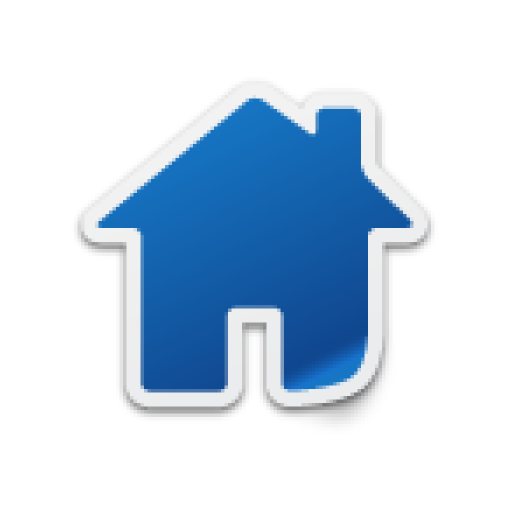
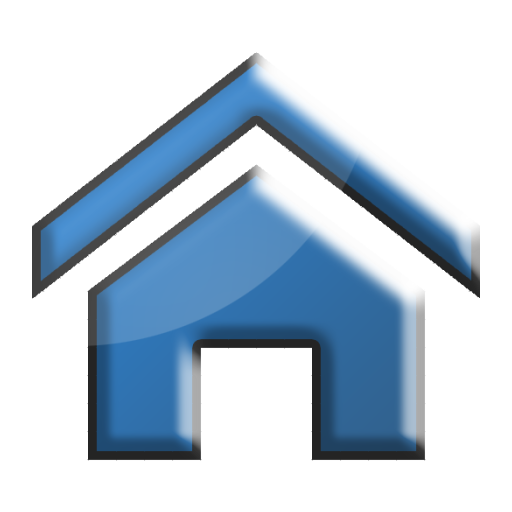
BETA finish 2
Modification de certains titres, et de traductions
Réorganisation du fichier strings.xml

diff --git a/app/src/main/java/fr/deepanse/soywod/deepanse/activity/CreateDeepAnse.java b/app/src/main/java/fr/deepanse/soywod/deepanse/activity/CreateDeepAnse.java
@@ -175,7 +175,7 @@ public class CreateDeepAnse extends DeepAnse {
 
     public void eventAgain(View view) {
         Intent intent = new Intent(RecognizerIntent.ACTION_RECOGNIZE_SPEECH);
-        intent.putExtra(RecognizerIntent.EXTRA_PROMPT, getString(R.string.prompt_add_deepanse));
+        intent.putExtra(RecognizerIntent.EXTRA_PROMPT, getString(R.string.prompt_create_deepanse));
         startActivityForResult(intent, 0);
     }
 
@@ -189,7 +189,7 @@ public class CreateDeepAnse extends DeepAnse {
                 false
         );
         deepAnseDb.insert(deepAnse);
-        Toast.makeText(getApplicationContext(), getString(R.string.inserted_deepense), Toast.LENGTH_SHORT).show();
+        Toast.makeText(getApplicationContext(), getString(R.string.toast_inserted_deepense), Toast.LENGTH_SHORT).show();
         finish();
     }
 
@@ -199,22 +199,6 @@ public class CreateDeepAnse extends DeepAnse {
         if (requestCode == 0 && resultCode == RESULT_OK) {
             initExtract(data.getStringArrayListExtra(RecognizerIntent.EXTRA_RESULTS).get(0).toLowerCase());
         }
-    }
-
-    @Override
-    public boolean onCreateOptionsMenu(Menu menu) {
-        getMenuInflater().inflate(R.menu.menu_edit_deepanse, menu);
-        return true;
-    }
-
-    @Override
-    public boolean onOptionsItemSelected(MenuItem item) {
-        switch (item.getItemId()) {
-            case android.R.id.home:
-                finish();
-        }
-
-        return super.onOptionsItemSelected(item);
     }
 
     public void initRegexGroup() {
@@ -240,5 +224,27 @@ public class CreateDeepAnse extends DeepAnse {
         }
     }
 
+    @Override
+    public boolean onCreateOptionsMenu(Menu menu) {
+        getMenuInflater().inflate(R.menu.menu_edit_deepanse, menu);
+        return true;
+    }
+
+    @Override
+    public boolean onOptionsItemSelected(MenuItem item) {
+        switch (item.getItemId()) {
+            case android.R.id.home:
+                finish();
+                break;
+
+            case R.id.home :
+                Intent intent = new Intent(CreateDeepAnse.this, Home.class);
+                intent.setFlags(Intent.FLAG_ACTIVITY_CLEAR_TOP);
+                startActivity(intent);
+                finish();
+        }
+
+        return super.onOptionsItemSelected(item);
+    }
 }
 

diff --git a/app/src/main/java/fr/deepanse/soywod/deepanse/activity/EditDeepAnseGroup.java b/app/src/main/java/fr/deepanse/soywod/deepanse/activity/EditDeepAnseGroup.java
@@ -4,6 +4,8 @@ import android.app.AlertDialog;
 import android.content.Intent;
 import android.graphics.Color;
 import android.os.Bundle;
+import android.view.Menu;
+import android.view.MenuItem;
 import android.view.View;
 import android.widget.EditText;
 import android.widget.LinearLayout;
@@ -78,7 +80,7 @@ public class EditDeepAnseGroup extends DeepAnse {
             public void execute() {
                 groupDb.updateAllById(id);
                 groupDb.delete(id);
-                Toast.makeText(getApplicationContext(), getString(R.string.deleted_group), Toast.LENGTH_SHORT).show();
+                Toast.makeText(getApplicationContext(), getString(R.string.toast_deleted_group), Toast.LENGTH_SHORT).show();
                 finish();
             }
         });
@@ -95,14 +97,37 @@ public class EditDeepAnseGroup extends DeepAnse {
 
         if (id == 0) {
             groupDb.insert(deepAnseGroup);
-            Toast.makeText(getApplicationContext(), getString(R.string.inserted_group), Toast.LENGTH_SHORT).show();
+            Toast.makeText(getApplicationContext(), getString(R.string.toast_inserted_group), Toast.LENGTH_SHORT).show();
         }
         else {
             groupDb.update(id, deepAnseGroup);
-            Toast.makeText(getApplicationContext(), getString(R.string.updated_group), Toast.LENGTH_SHORT).show();
+            Toast.makeText(getApplicationContext(), getString(R.string.toast_updated_group), Toast.LENGTH_SHORT).show();
         }
 
         finish();
+    }
+
+    @Override
+    public boolean onCreateOptionsMenu(Menu menu) {
+        getMenuInflater().inflate(R.menu.menu_edit_deepanse, menu);
+        return true;
+    }
+
+    @Override
+    public boolean onOptionsItemSelected(MenuItem item) {
+        switch (item.getItemId()) {
+            case android.R.id.home:
+                finish();
+                break;
+
+            case R.id.home :
+                Intent intent = new Intent(EditDeepAnseGroup.this, Home.class);
+                intent.setFlags(Intent.FLAG_ACTIVITY_CLEAR_TOP);
+                startActivity(intent);
+                finish();
+        }
+
+        return super.onOptionsItemSelected(item);
     }
 }
 

diff --git a/app/src/main/java/fr/deepanse/soywod/deepanse/activity/ListDeepAnseDetail.java b/app/src/main/java/fr/deepanse/soywod/deepanse/activity/ListDeepAnseDetail.java
@@ -84,7 +84,7 @@ public class ListDeepAnseDetail extends DeepAnse implements AdapterView.OnItemCl
         adapter.notifyDataSetChanged();
 
         if (arrayDeepAnse.size() == 0) {
-            Toast.makeText(getApplicationContext(), getString(R.string.no_result), Toast.LENGTH_SHORT).show();
+            Toast.makeText(getApplicationContext(), getString(R.string.toast_no_result), Toast.LENGTH_SHORT).show();
             finish();
         }
 
@@ -120,7 +120,7 @@ public class ListDeepAnseDetail extends DeepAnse implements AdapterView.OnItemCl
             @Override
             public void execute() {
                 deepAnseDb.delete(arrayDeepAnse.get(position).getId());
-                Toast.makeText(getApplicationContext(), getString(R.string.deleted_deepense), Toast.LENGTH_SHORT).show();
+                Toast.makeText(getApplicationContext(), getString(R.string.toast_deleted_deepense), Toast.LENGTH_SHORT).show();
                 refreshData();
                 longClicked = false;
             }
@@ -138,7 +138,7 @@ public class ListDeepAnseDetail extends DeepAnse implements AdapterView.OnItemCl
 
     @Override
     public boolean onCreateOptionsMenu(Menu menu) {
-        getMenuInflater().inflate(R.menu.menu_list_deepanse_detail, menu);
+        getMenuInflater().inflate(R.menu.menu_edit_deepanse, menu);
         return true;
     }
 
@@ -146,6 +146,13 @@ public class ListDeepAnseDetail extends DeepAnse implements AdapterView.OnItemCl
     public boolean onOptionsItemSelected(MenuItem item) {
         switch (item.getItemId()) {
             case android.R.id.home:
+                finish();
+                break;
+
+            case R.id.home :
+                Intent intent = new Intent(ListDeepAnseDetail.this, Home.class);
+                intent.setFlags(Intent.FLAG_ACTIVITY_CLEAR_TOP);
+                startActivity(intent);
                 finish();
         }
 

diff --git a/app/src/main/java/fr/deepanse/soywod/deepanse/activity/EditDeepAnse.java b/app/src/main/java/fr/deepanse/soywod/deepanse/activity/EditDeepAnse.java
@@ -85,7 +85,7 @@ public class EditDeepAnse extends DeepAnse {
             @Override
             public void execute() {
                 deepAnseDb.delete(id);
-                Toast.makeText(getApplicationContext(), getString(R.string.deleted_deepense), Toast.LENGTH_SHORT).show();
+                Toast.makeText(getApplicationContext(), getString(R.string.toast_deleted_deepense), Toast.LENGTH_SHORT).show();
                 finish();
             }
         });
@@ -105,11 +105,11 @@ public class EditDeepAnse extends DeepAnse {
 
         if (id == 0) {
             deepAnseDb.insert(deepAnse);
-            Toast.makeText(getApplicationContext(), getString(R.string.inserted_deepense), Toast.LENGTH_SHORT).show();
+            Toast.makeText(getApplicationContext(), getString(R.string.toast_inserted_deepense), Toast.LENGTH_SHORT).show();
         }
         else {
             deepAnseDb.update(id, deepAnse);
-            Toast.makeText(getApplicationContext(), getString(R.string.updated_deepense), Toast.LENGTH_SHORT).show();
+            Toast.makeText(getApplicationContext(), getString(R.string.toast_updated_deepense), Toast.LENGTH_SHORT).show();
         }
 
         finish();
@@ -124,8 +124,15 @@ public class EditDeepAnse extends DeepAnse {
     @Override
     public boolean onOptionsItemSelected(MenuItem item) {
         switch (item.getItemId()) {
-            case android.R.id.home:
+            case android.R.id.home :
                 eventCancel(null);
+                break;
+
+            case R.id.home :
+                Intent intent = new Intent(EditDeepAnse.this, Home.class);
+                intent.setFlags(Intent.FLAG_ACTIVITY_CLEAR_TOP);
+                startActivity(intent);
+                finish();
         }
 
         return super.onOptionsItemSelected(item);

diff --git a/app/src/main/java/fr/deepanse/soywod/deepanse/activity/ListDeepAnse.java b/app/src/main/java/fr/deepanse/soywod/deepanse/activity/ListDeepAnse.java
@@ -70,7 +70,7 @@ public class ListDeepAnse extends DeepAnse {
 
 
                     Intent intent = new Intent(ListDeepAnse.this, ListDeepAnseDetail.class);
-                    intent.putExtra("title", R.string.title_detail_of);
+                    intent.putExtra("title", R.string.title_detailed_list);
                     intent.putExtra("date", Conversion.dateToString(date));
                     intent.putExtra("group", group);
                     startActivity(intent);
@@ -298,7 +298,7 @@ public class ListDeepAnse extends DeepAnse {
             collapseAll();
         }
         else {
-            Toast.makeText(getApplicationContext(), getString(R.string.no_result), Toast.LENGTH_SHORT).show();
+            Toast.makeText(getApplicationContext(), getString(R.string.toast_no_result), Toast.LENGTH_SHORT).show();
             finish();
         }
     }
@@ -312,23 +312,18 @@ public class ListDeepAnse extends DeepAnse {
     @Override
     public boolean onOptionsItemSelected(MenuItem item) {
         switch (item.getItemId()) {
-            case R.id.menu_year:
-                eventListByYear(null);
-                break;
-
-            case R.id.menu_month:
-                eventListByMonth(null);
-                break;
-
-            case R.id.menu_day:
-                eventListByDay(null);
-                break;
-
             case R.id.menu_collapse:
                 collapseAll();
                 break;
 
             case android.R.id.home:
+                finish();
+                break;
+
+            case R.id.home :
+                Intent intent = new Intent(ListDeepAnse.this, Home.class);
+                intent.setFlags(Intent.FLAG_ACTIVITY_CLEAR_TOP);
+                startActivity(intent);
                 finish();
         }
 

diff --git a/app/src/main/java/fr/deepanse/soywod/deepanse/activity/ListDeepAnseGroup.java b/app/src/main/java/fr/deepanse/soywod/deepanse/activity/ListDeepAnseGroup.java
@@ -89,7 +89,7 @@ public class ListDeepAnseGroup extends DeepAnse implements AdapterView.OnItemCli
                 public void execute() {
                     groupDb.updateAllById(arrayDeepAnseGroup.get(position).getId());
                     groupDb.delete(arrayDeepAnseGroup.get(position).getId());
-                    Toast.makeText(getApplicationContext(), getString(R.string.deleted_group), Toast.LENGTH_SHORT).show();
+                    Toast.makeText(getApplicationContext(), getString(R.string.toast_deleted_group), Toast.LENGTH_SHORT).show();
                     refreshData();
                     longClicked = false;
                 }
@@ -107,7 +107,7 @@ public class ListDeepAnseGroup extends DeepAnse implements AdapterView.OnItemCli
 
     @Override
     public boolean onCreateOptionsMenu(Menu menu) {
-        getMenuInflater().inflate(R.menu.menu_list_deepanse_detail, menu);
+        getMenuInflater().inflate(R.menu.menu_edit_deepanse, menu);
         return true;
     }
 
@@ -115,6 +115,13 @@ public class ListDeepAnseGroup extends DeepAnse implements AdapterView.OnItemCli
     public boolean onOptionsItemSelected(MenuItem item) {
         switch (item.getItemId()) {
             case android.R.id.home:
+                finish();
+                break;
+
+            case R.id.home :
+                Intent intent = new Intent(ListDeepAnseGroup.this, Home.class);
+                intent.setFlags(Intent.FLAG_ACTIVITY_CLEAR_TOP);
+                startActivity(intent);
                 finish();
         }
 

diff --git a/app/src/main/java/fr/deepanse/soywod/deepanse/activity/Home.java b/app/src/main/java/fr/deepanse/soywod/deepanse/activity/Home.java
@@ -22,6 +22,7 @@ public class Home extends ActionBarActivity implements View.OnClickListener {
         ActionBar actionBar = getSupportActionBar();
         actionBar.setDisplayOptions(ActionBar.DISPLAY_SHOW_HOME | ActionBar.DISPLAY_SHOW_TITLE);
         actionBar.setTitle(getString(R.string.title_home));
+        actionBar.setIcon(getResources().getDrawable(R.drawable.home));
 
         findViewById(R.id.button_add_deepanse_by_voice).setOnClickListener(this);
         findViewById(R.id.button_add_deepanse_by_hand).setOnClickListener(this);
@@ -39,7 +40,7 @@ public class Home extends ActionBarActivity implements View.OnClickListener {
         switch (v.getId()) {
             case R.id.button_add_deepanse_by_voice :
                 intent = new Intent(RecognizerIntent.ACTION_RECOGNIZE_SPEECH);
-                intent.putExtra(RecognizerIntent.EXTRA_PROMPT, getString(R.string.prompt_add_deepanse));
+                intent.putExtra(RecognizerIntent.EXTRA_PROMPT, getString(R.string.prompt_create_deepanse));
                 startActivityForResult(intent, 0);
                 break;
 

diff --git a/app/src/main/java/fr/deepanse/soywod/deepanse/activity/DeepAnse.java b/app/src/main/java/fr/deepanse/soywod/deepanse/activity/DeepAnse.java
@@ -9,6 +9,7 @@ import android.view.View;
 
 import java.sql.SQLException;
 
+import fr.deepanse.soywod.deepanse.R;
 import fr.deepanse.soywod.deepanse.database.DeepAnseSQLiteOpenHelper;
 import fr.deepanse.soywod.deepanse.model.DeepAnseGroup;
 
@@ -51,12 +52,12 @@ abstract public class DeepAnse extends ActionBarActivity {
             e.printStackTrace();
         }
 
-        if (groupDb.select(1) == null) groupDb.insert(new DeepAnseGroup(1, "default", Color.DKGRAY));
+        if (groupDb.select(1) == null) groupDb.insert(new DeepAnseGroup(1, "default", getResources().getColor(R.color.ColorBlue)));
     }
 
     private void initActionBar() {
         actionBar = getSupportActionBar();
-        actionBar.setDisplayOptions(ActionBar.DISPLAY_SHOW_HOME | ActionBar.DISPLAY_SHOW_TITLE);
+        actionBar.setDisplayOptions(ActionBar.DISPLAY_HOME_AS_UP | ActionBar.DISPLAY_SHOW_TITLE);
     }
 
     protected void setActionBarIcon(int drawableRes) {

diff --git a/app/src/main/java/fr/deepanse/soywod/deepanse/activity/FindDeepAnse.java b/app/src/main/java/fr/deepanse/soywod/deepanse/activity/FindDeepAnse.java
@@ -107,6 +107,13 @@ public class FindDeepAnse extends DeepAnse {
         switch (item.getItemId()) {
             case android.R.id.home:
                 finish();
+                break;
+
+            case R.id.home :
+                Intent intent = new Intent(FindDeepAnse.this, Home.class);
+                intent.setFlags(Intent.FLAG_ACTIVITY_CLEAR_TOP);
+                startActivity(intent);
+                finish();
         }
 
         return super.onOptionsItemSelected(item);

diff --git a/app/src/main/java/fr/deepanse/soywod/deepanse/database/DeepAnseSQLiteOpenHelper.java b/app/src/main/java/fr/deepanse/soywod/deepanse/database/DeepAnseSQLiteOpenHelper.java
@@ -10,7 +10,7 @@ import android.database.sqlite.SQLiteOpenHelper;
 public class DeepAnseSQLiteOpenHelper extends SQLiteOpenHelper {
 
     public static final String DATABASE_NAME = "deepanse.db";
-    public static final int VERSION = 1;
+    public static final int VERSION = 2;
 
     public static final String AMOUNT = "amount";
     public static final String COLOR = "color";
